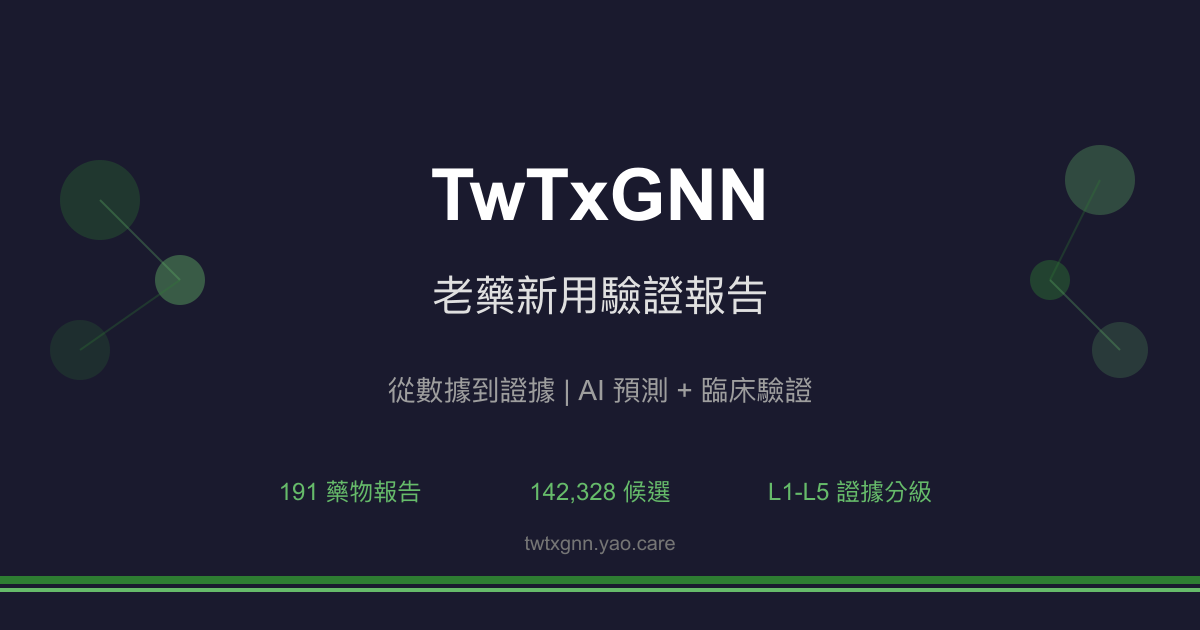
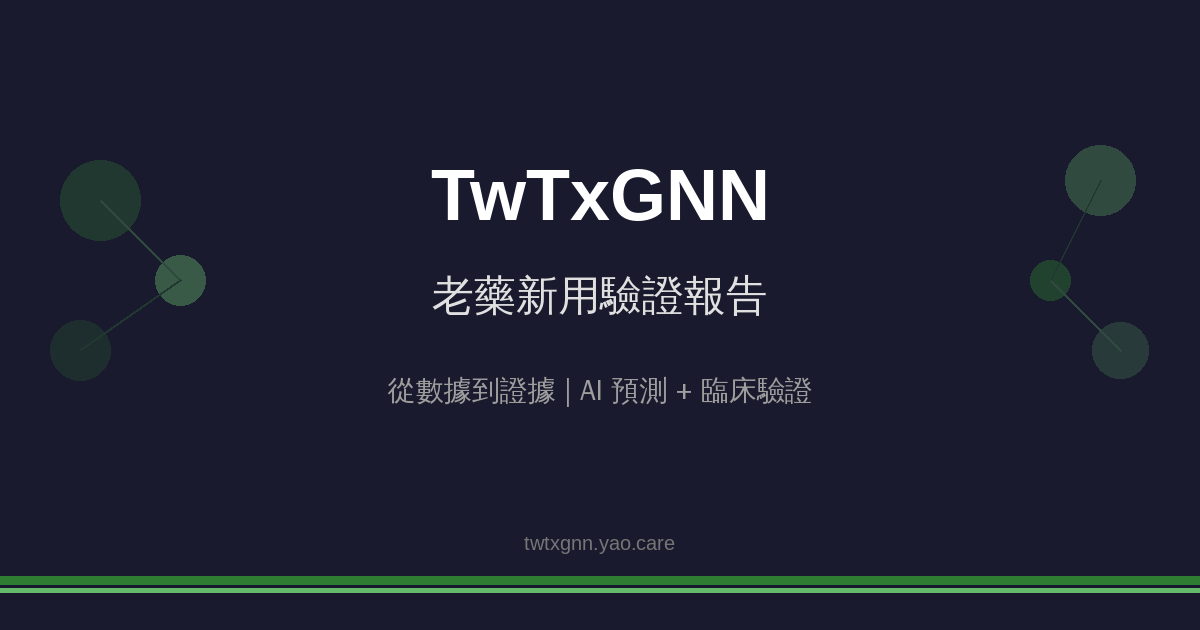
fix: og 預設圖拿掉已過期的數字（191 藥物報告、142,328 候選）
- og-default.png／svg 重產：原圖寫「191 藥物報告」「142,328 候選」（現為 291 藥物，數字已過期）。
  改由母 repo .claude/gen_og_image.py 產生，保留原版式與標語，拿掉所有數字。
- assets/images/README.md：設計要求裡的「TwTxGNN」與標語改成本站實際內容，註明產生方式。

Claude-Session: https://claude.ai/code/session_013aGXmRzC9hmsD5XtZ9FusM

diff --git a/docs/assets/images/README.md b/docs/assets/images/README.md
@@ -20,6 +20,11 @@ nav_exclude: true
 3. 簡潔、專業風格
 4. 背景純色或簡單圖案
 5. 適合在社群媒體預覽顯示
+6. 不放藥物數、候選數等數字（會過期）
+
+### 產生方式
+
+由 TxGNN 母 repo 的 `.claude/gen_og_image.py` 產生（同時輸出 og-default.svg）。
 
 ### 使用位置
 
